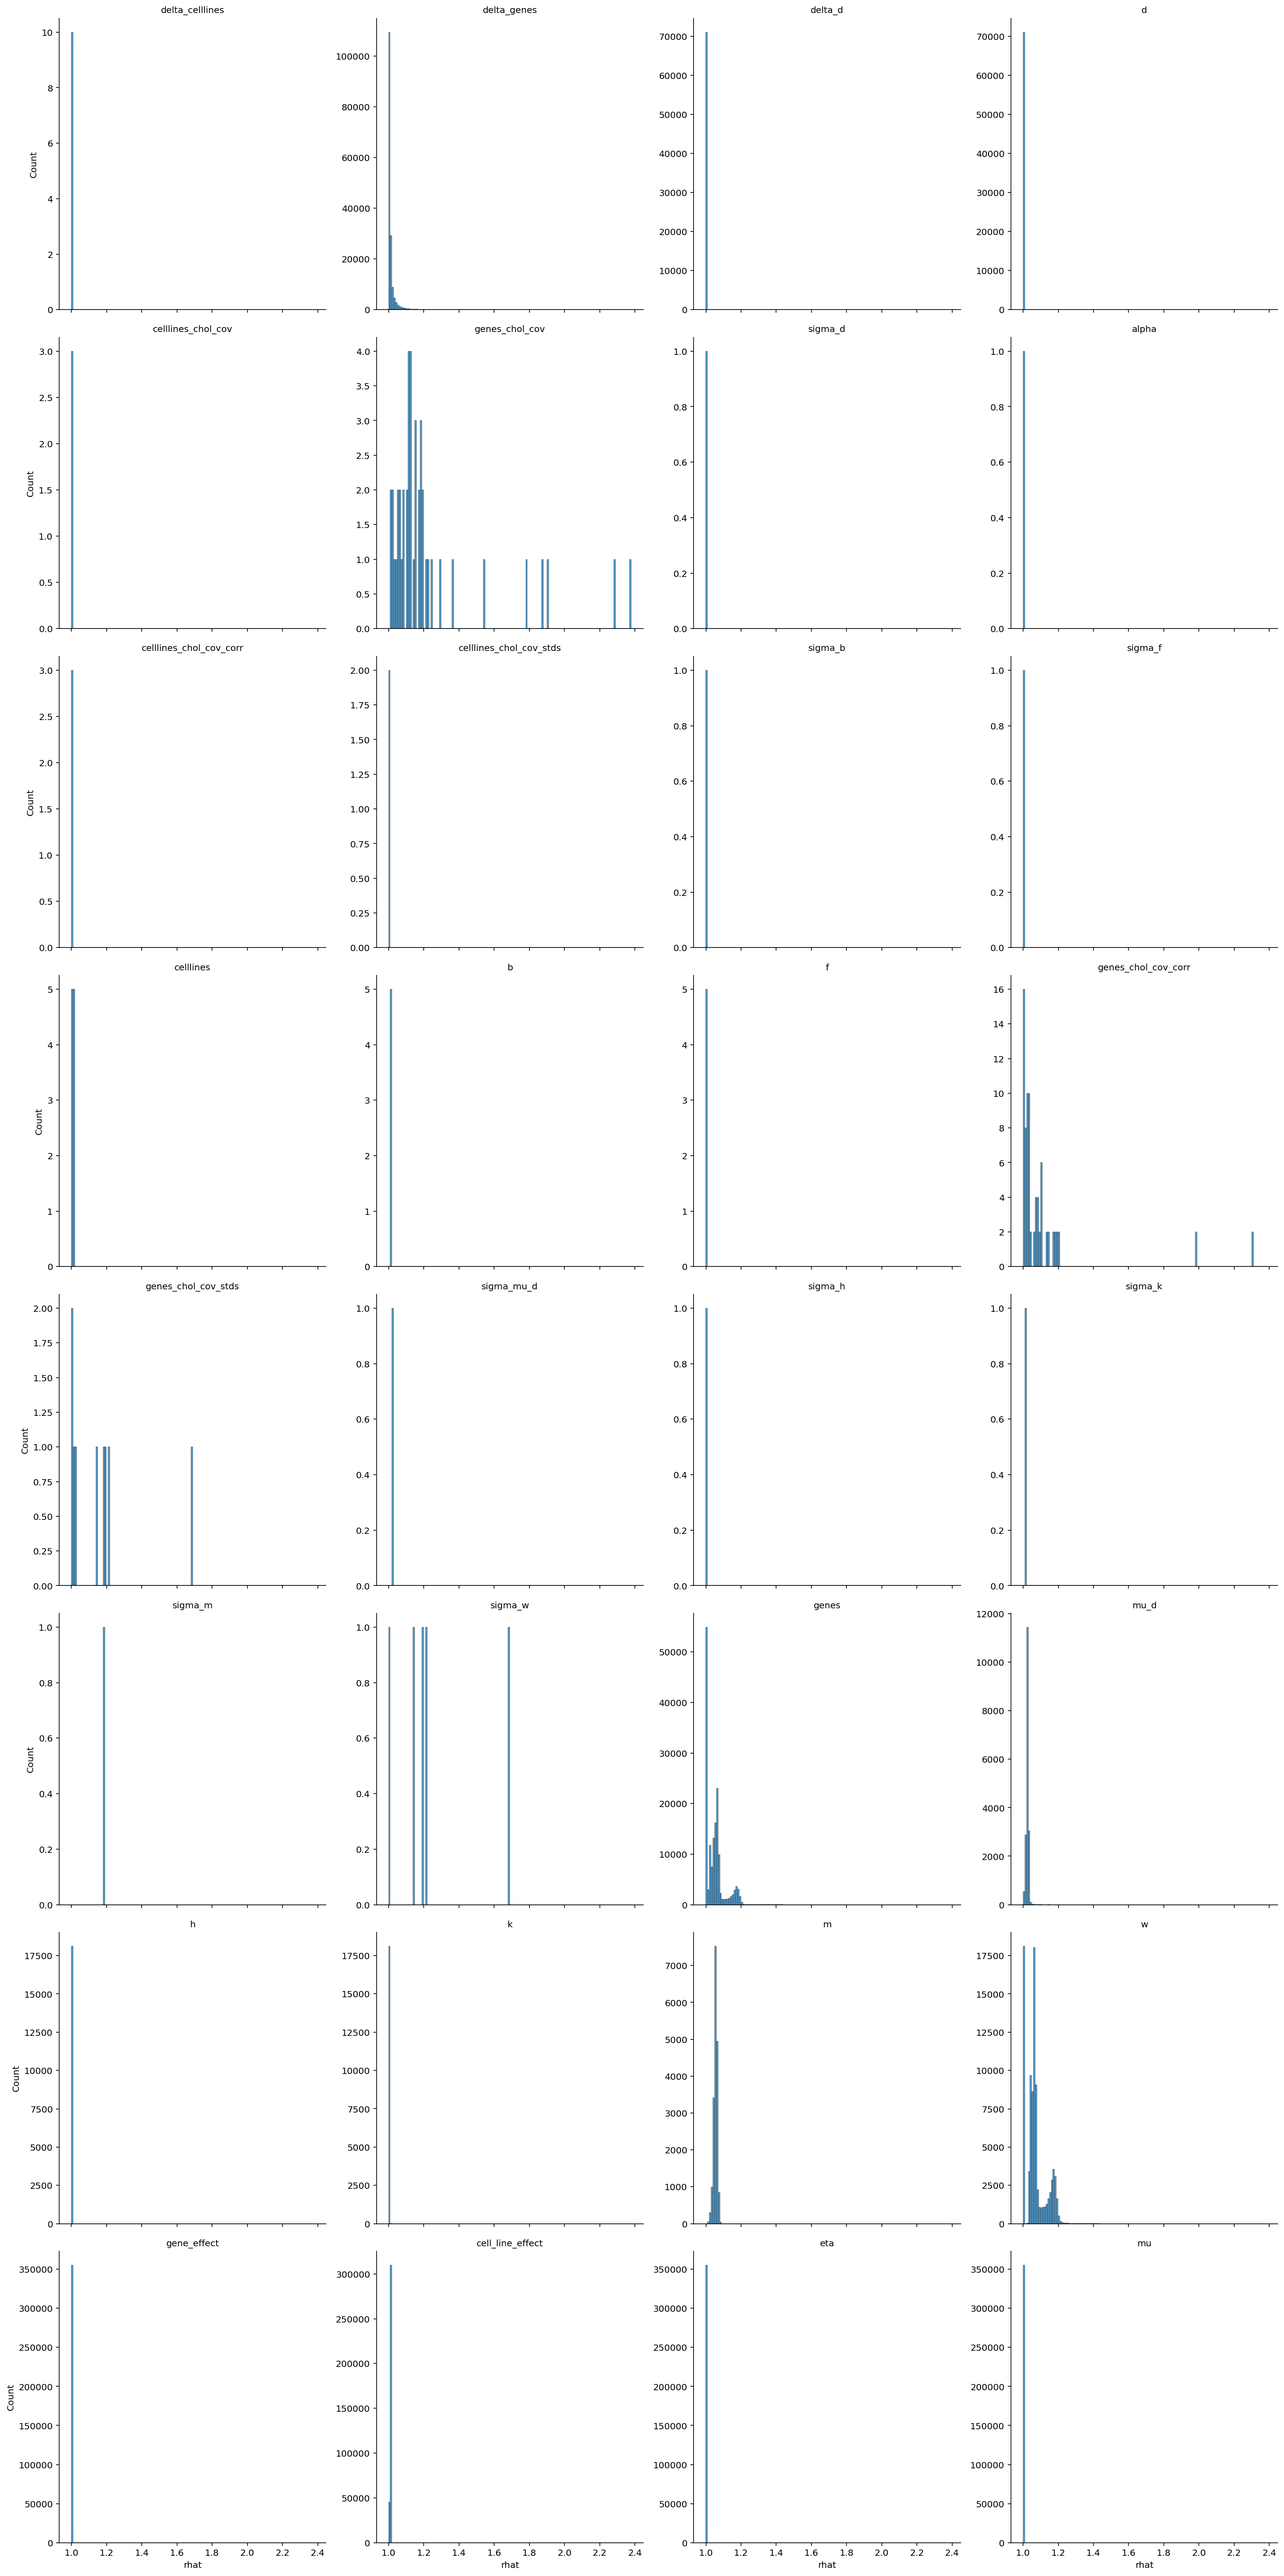
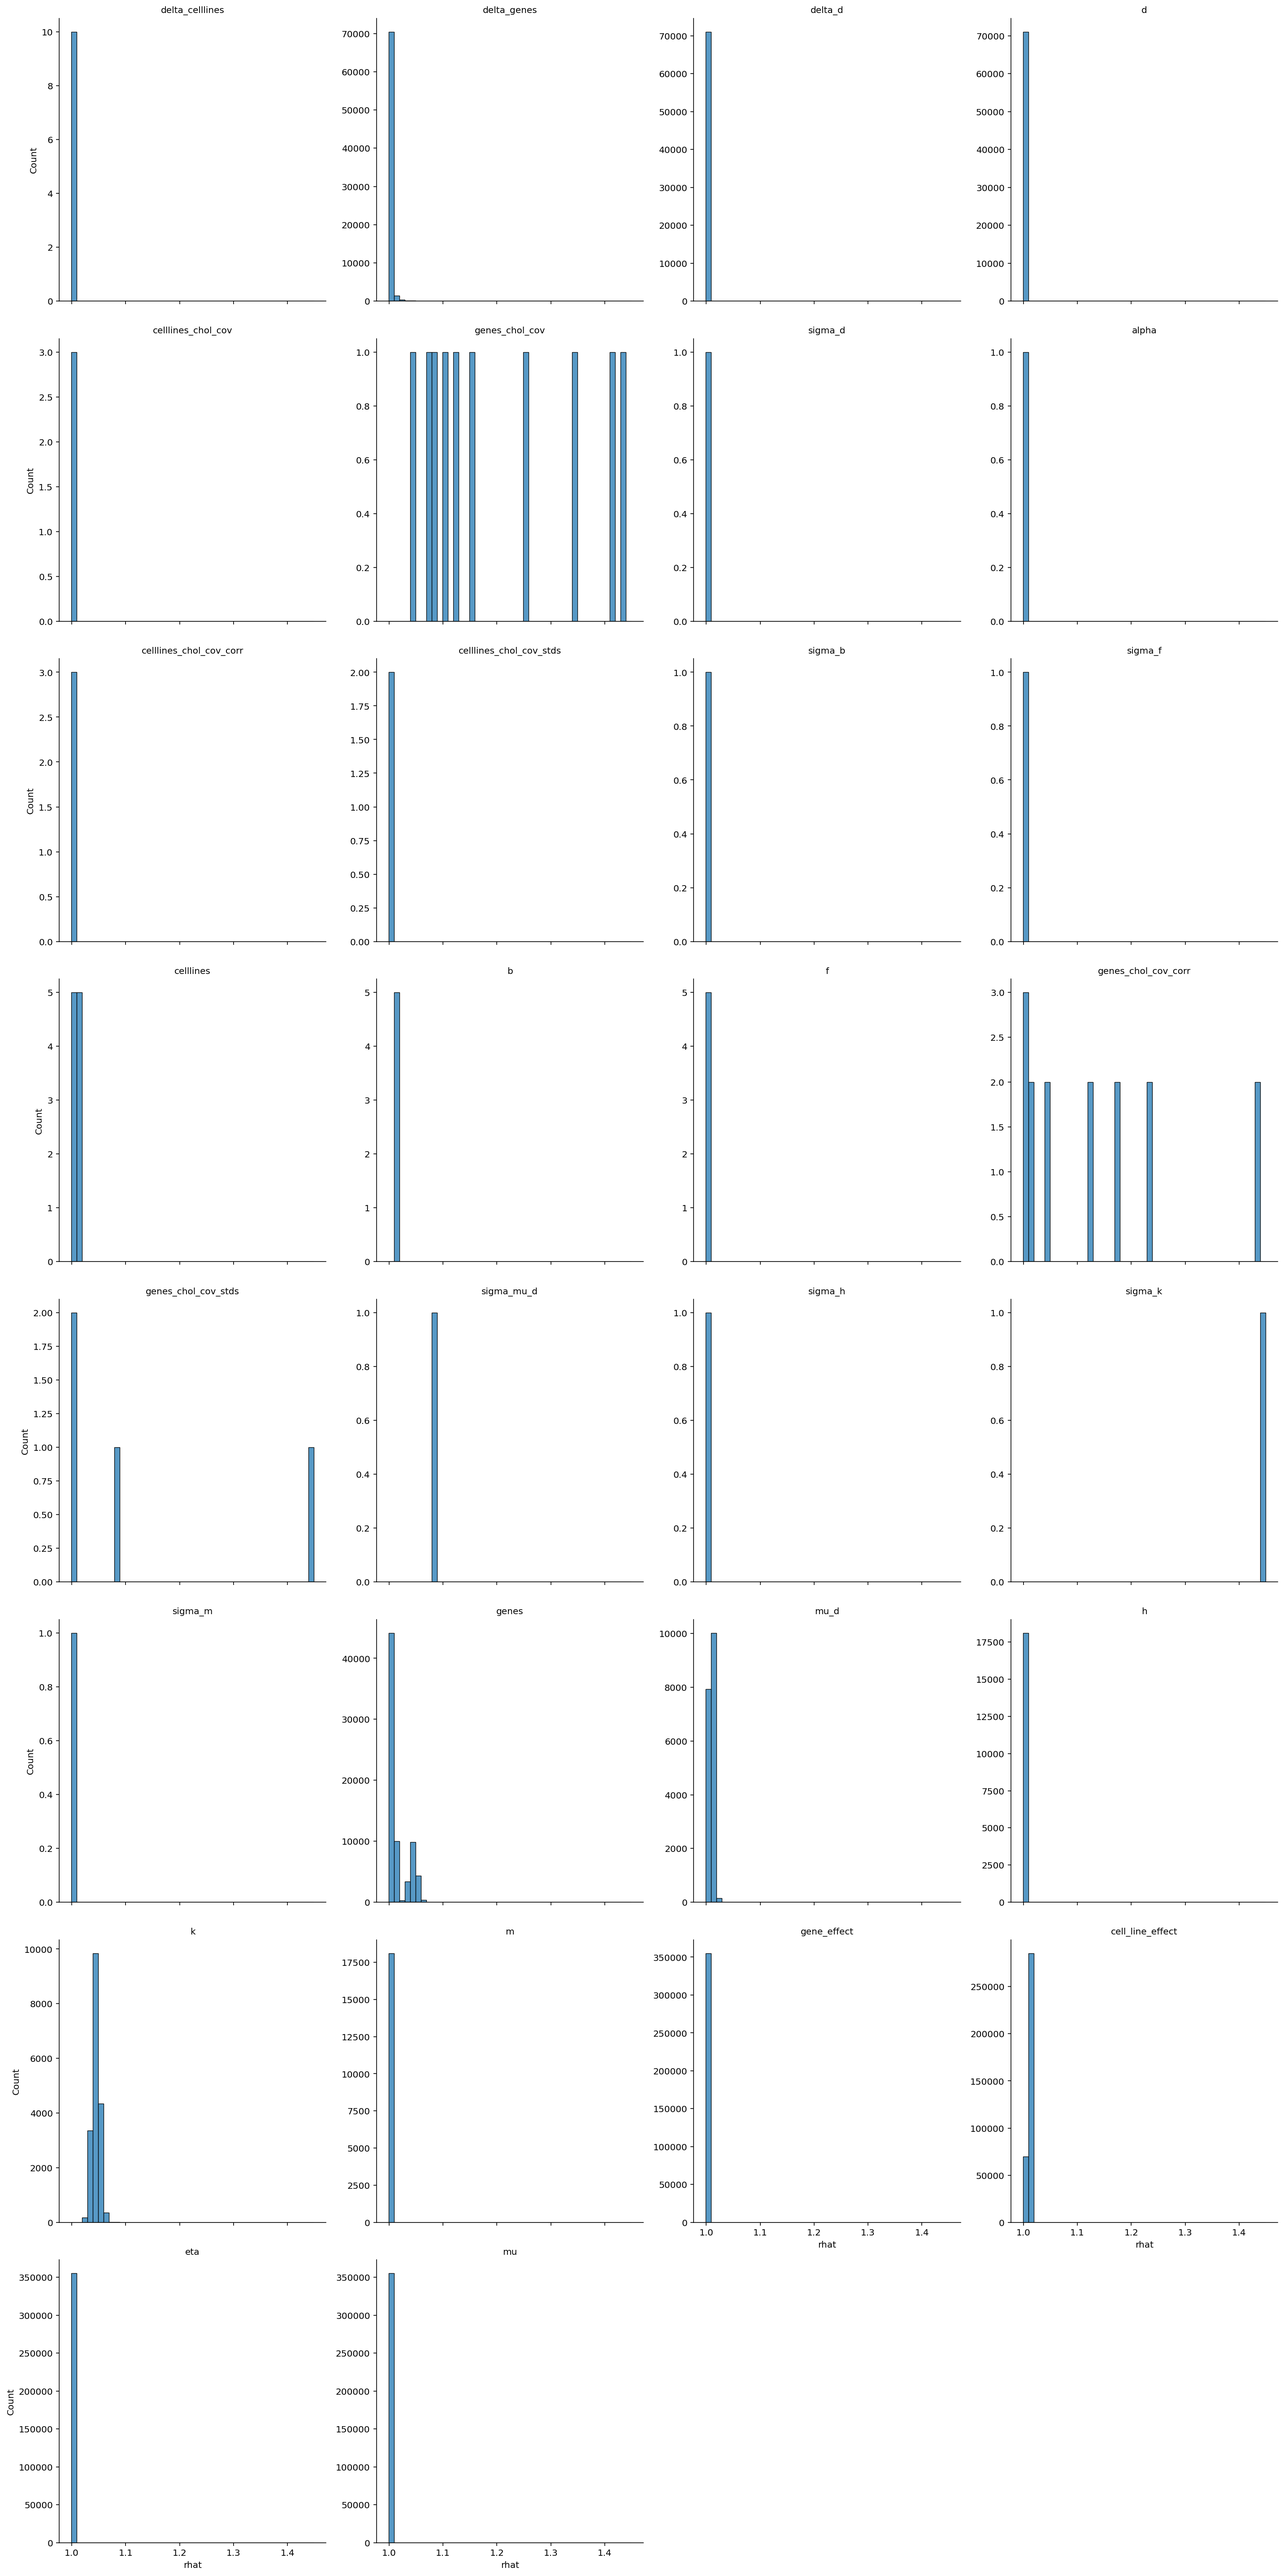
ana: model fitting pipeline prostate report

diff --git a/reports/model-fitting-pipeline-reports/hnb-single-lineage-prostate_PYMC_NUMPYRO.md b/reports/model-fitting-pipeline-reports/hnb-single-lineage-prostate_PYMC_NUMPYRO.md
@@ -101,79 +101,75 @@ if FIT_METHOD is ModelFitMethod.PYMC_NUMPYRO or FIT_METHOD is ModelFitMethod.PYM
 
                                 count      mean       std       min       25%  \
     var_name
-    alpha                         1.0  1.000909       NaN  1.000909  1.000909
-    b                             5.0  1.011968  0.000525  1.011195  1.011698
-    cell_line_effect         355310.0  1.010942  0.002217  1.000507  1.010703
-    celllines                    10.0  1.006406  0.005879  1.000406  1.000825
-    celllines_chol_cov            3.0  1.001364  0.000965  1.000661  1.000814
-    celllines_chol_cov_corr       3.0  1.000688  0.000776  0.999792  1.000464
-    celllines_chol_cov_stds       2.0  1.001153  0.000695  1.000661  1.000907
-    d                         71062.0  1.000872  0.000923  0.999131  1.000206
-    delta_celllines              10.0  1.000904  0.000674  1.000243  1.000579
-    delta_d                   71062.0  1.001332  0.001235  0.999157  1.000419
-    delta_genes              163071.0  1.012180  0.025624  0.999196  1.001550
-    eta                      355310.0  1.000882  0.000978  0.999113  1.000170
-    f                             5.0  1.000844  0.000382  1.000406  1.000694
-    gene_effect              355310.0  1.000882  0.000975  0.999109  1.000174
-    genes                    163071.0  1.048427  0.051842  0.999165  1.001355
-    genes_chol_cov               45.0  1.240294  0.313199  1.015185  1.084821
-    genes_chol_cov_corr          80.0  1.113192  0.248458  0.999898  1.016583
-    genes_chol_cov_stds           9.0  1.161959  0.213158  1.002686  1.014534
-    h                         18119.0  1.001062  0.001089  0.999165  1.000261
-    k                         18119.0  1.000979  0.000934  0.999252  1.000329
-    m                         18119.0  1.054216  0.010005  1.013207  1.048698
-    mu                       355310.0  1.000849  0.000959  0.999111  1.000151
-    mu_d                      18119.0  1.023953  0.006934  1.000715  1.020465
-    sigma_b                       1.0  1.000661       NaN  1.000661  1.000661
-    sigma_d                       1.0  1.000158       NaN  1.000158  1.000158
-    sigma_f                       1.0  1.001644       NaN  1.001644  1.001644
-    sigma_h                       1.0  1.006099       NaN  1.006099  1.006099
-    sigma_k                       1.0  1.014534       NaN  1.014534  1.014534
-    sigma_m                       1.0  1.180998       NaN  1.180998  1.180998
-    sigma_mu_d                    1.0  1.024743       NaN  1.024743  1.024743
-    sigma_w                       5.0  1.246252  0.256293  1.002686  1.140781
-    w                         90595.0  1.071126  0.057157  0.999203  1.040264
+    alpha                         1.0  1.001247       NaN  1.001247  1.001247
+    b                             5.0  1.010682  0.000682  1.009700  1.010484
+    cell_line_effect         355310.0  1.009757  0.001655  1.001282  1.009638
+    celllines                    10.0  1.005699  0.005276  1.000317  1.000662
+    celllines_chol_cov            3.0  1.003638  0.002193  1.001543  1.002498
+    celllines_chol_cov_corr       3.0  1.002880  0.002156  1.000390  1.002257
+    celllines_chol_cov_stds       2.0  1.005216  0.000992  1.004515  1.004865
+    d                         71062.0  1.001485  0.001329  0.999109  1.000510
+    delta_celllines              10.0  1.002789  0.001447  1.000865  1.001332
+    delta_d                   71062.0  1.001582  0.001390  0.999158  1.000556
+    delta_genes               72476.0  1.002349  0.003749  0.999083  1.000762
+    eta                      355310.0  1.001356  0.001274  0.999113  1.000418
+    f                             5.0  1.000717  0.000347  1.000317  1.000630
+    gene_effect              355310.0  1.001352  0.001272  0.999130  1.000416
+    genes                     72476.0  1.014306  0.018507  0.999163  1.000986
+    genes_chol_cov               10.0  1.202901  0.145514  1.048104  1.088374
+    genes_chol_cov_corr          15.0  1.136013  0.146386  0.999828  1.009846
+    genes_chol_cov_stds           4.0  1.132488  0.211097  1.000853  1.001682
+    h                         18119.0  1.001238  0.001205  0.999166  1.000354
+    k                         18119.0  1.044946  0.007371  1.018773  1.040316
+    m                         18119.0  1.001199  0.001268  0.999163  1.000337
+    mu                       355310.0  1.001303  0.001245  0.999104  1.000386
+    mu_d                      18119.0  1.009840  0.003353  1.000619  1.007534
+    sigma_b                       1.0  1.005917       NaN  1.005917  1.005917
+    sigma_d                       1.0  1.000422       NaN  1.000422  1.000422
+    sigma_f                       1.0  1.004515       NaN  1.004515  1.004515
+    sigma_h                       1.0  1.000853       NaN  1.000853  1.000853
+    sigma_k                       1.0  1.443785       NaN  1.443785  1.443785
+    sigma_m                       1.0  1.001959       NaN  1.001959  1.001959
+    sigma_mu_d                    1.0  1.083354       NaN  1.083354  1.083354
 
                                   50%       75%       max
     var_name
-    alpha                    1.000909  1.000909  1.000909
-    b                        1.012108  1.012371  1.012468
-    cell_line_effect         1.011762  1.012288  1.013058
-    celllines                1.006323  1.012005  1.012468
-    celllines_chol_cov       1.000967  1.001715  1.002464
-    celllines_chol_cov_corr  1.001136  1.001136  1.001136
-    celllines_chol_cov_stds  1.001153  1.001398  1.001644
-    d                        1.000693  1.001344  1.008786
-    delta_celllines          1.000628  1.001041  1.002299
-    delta_d                  1.001096  1.001989  1.011374
-    delta_genes              1.004240  1.012056  1.527316
-    eta                      1.000681  1.001384  1.022192
-    f                        1.000815  1.000855  1.001452
-    gene_effect              1.000680  1.001382  1.022242
-    genes                    1.042619  1.065695  1.438466
-    genes_chol_cov           1.126476  1.191798  2.370640
-    genes_chol_cov_corr      1.032848  1.101292  2.307072
-    genes_chol_cov_stds      1.140781  1.189422  1.680165
-    h                        1.000843  1.001622  1.009514
-    k                        1.000809  1.001446  1.012093
-    m                        1.055074  1.060881  1.087743
-    mu                       1.000653  1.001343  1.022192
-    mu_d                     1.024435  1.027883  1.142280
-    sigma_b                  1.000661  1.000661  1.000661
-    sigma_d                  1.000158  1.000158  1.000158
-    sigma_f                  1.001644  1.001644  1.001644
-    sigma_h                  1.006099  1.006099  1.006099
-    sigma_k                  1.014534  1.014534  1.014534
-    sigma_m                  1.180998  1.180998  1.180998
-    sigma_mu_d               1.024743  1.024743  1.024743
-    sigma_w                  1.189422  1.218207  1.680165
-    w                        1.062360  1.082061  1.438466
+    alpha                    1.001247  1.001247  1.001247
+    b                        1.010586  1.011181  1.011456
+    cell_line_effect         1.010094  1.011133  1.011506
+    celllines                1.005487  1.010561  1.011456
+    celllines_chol_cov       1.003453  1.004685  1.005917
+    celllines_chol_cov_corr  1.004125  1.004125  1.004125
+    celllines_chol_cov_stds  1.005216  1.005567  1.005917
+    d                        1.001243  1.002187  1.016507
+    delta_celllines          1.003006  1.003903  1.004649
+    delta_d                  1.001331  1.002330  1.012701
+    delta_genes              1.001610  1.002790  1.130139
+    eta                      1.001121  1.002038  1.027940
+    f                        1.000640  1.000726  1.001273
+    gene_effect              1.001119  1.002032  1.028090
+    genes                    1.004558  1.024169  1.239996
+    genes_chol_cov           1.137019  1.318887  1.429687
+    genes_chol_cov_corr      1.123200  1.203881  1.431926
+    genes_chol_cov_stds      1.042657  1.173462  1.443785
+    h                        1.001009  1.001875  1.009227
+    k                        1.044737  1.049324  1.239996
+    m                        1.000968  1.001787  1.059263
+    mu                       1.001075  1.001969  1.027940
+    mu_d                     1.009566  1.011812  1.071336
+    sigma_b                  1.005917  1.005917  1.005917
+    sigma_d                  1.000422  1.000422  1.000422
+    sigma_f                  1.004515  1.004515  1.004515
+    sigma_h                  1.000853  1.000853  1.000853
+    sigma_k                  1.443785  1.443785  1.443785
+    sigma_m                  1.001959  1.001959  1.001959
+    sigma_mu_d               1.083354  1.083354  1.083354
     ============================================================
     sampled 4 chains with (unknown) tuning steps and 1,000 draws
     num. divergences: 0, 0, 0, 0
     percent divergences: 0.0, 0.0, 0.0, 0.0
-    BFMI: 0.829, 0.916, 0.846, 0.861
-    avg. step size: 0.004, 0.006, 0.006, 0.003
+    BFMI: 0.844, 0.89, 0.892, 0.899
+    avg. step size: 0.01, 0.01, 0.011, 0.008
 
 
 
@@ -213,18 +209,18 @@ psis_loo
     Computed from 4000 posterior samples and 355310 observations log-likelihood matrix.
 
              Estimate       SE
-    elpd_loo -2190104.29   632.59
-    p_loo    86951.24        -
+    elpd_loo -2201395.64   649.11
+    p_loo    71257.93        -
 
     There has been a warning during the calculation. Please check the results.
     ------
 
     Pareto k diagnostic values:
                               Count   Pct.
-    (-Inf, 0.5]   (good)     308048   86.7%
-     (0.5, 0.7]   (ok)        40221   11.3%
-       (0.7, 1]   (bad)        6512    1.8%
-       (1, Inf)   (very bad)    529    0.1%
+    (-Inf, 0.5]   (good)     327375   92.1%
+     (0.5, 0.7]   (ok)        23865    6.7%
+       (0.7, 1]   (bad)        3731    1.1%
+       (1, Inf)   (very bad)    339    0.1%
 
 
 
@@ -249,7 +245,7 @@ notebook_toc = time()
 print(f"execution time: {(notebook_toc - notebook_tic) / 60:.2f} minutes")
 ```
 
-    execution time: 191.16 minutes
+    execution time: 131.73 minutes
 
 
 
@@ -269,14 +265,14 @@ print(f"execution time: {(notebook_toc - notebook_tic) / 60:.2f} minutes")
     Release     : 3.10.0-1160.66.1.el7.x86_64
     Machine     : x86_64
     Processor   : x86_64
-    CPU cores   : 20
+    CPU cores   : 32
     Architecture: 64bit
 
-    Hostname: compute-f-17-13.o2.rc.hms.harvard.edu
+    Hostname: compute-h-17-54.o2.rc.hms.harvard.edu
 
     Git branch: simplify
 
     logging   : 0.5.1.2
-    speclet   : 0.0.9000
     arviz     : 0.12.1
+    speclet   : 0.0.9000
     matplotlib: 3.5.2
